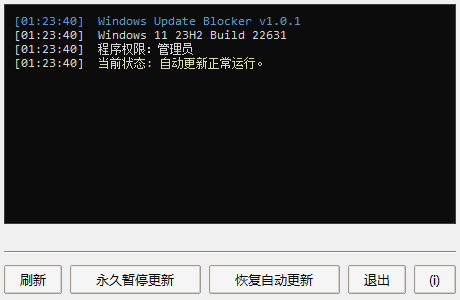
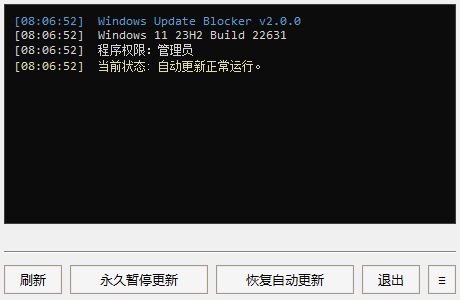
update

diff --git a/README.md b/README.md
@@ -1,25 +1,28 @@
 <div align="center">
+<img src="assets\icon.ico" width="128" alt="logo" />
+<h1>Windows Update Blocker</h1>
 
-# Windows Update Blocker
-
-[![Version](https://img.shields.io/badge/version-1.0.1-blue.svg)](#)
-[![Python](https://img.shields.io/badge/Python-3.8%2B-blue.svg)](#)
+[![Version](https://img.shields.io/badge/version-2.0.0-blue.svg)](#)
+[![Rust](https://img.shields.io/badge/Rust-1.71%2B-orange.svg?logo=rust&logoColor=white)](#)
 [![Platform](https://img.shields.io/badge/Platform-Windows-0078D6.svg?logo=windows&logoColor=white)](#)
-[![GUI](https://img.shields.io/badge/GUI-Tkinter-orange.svg)](#)
+[![GUI](https://img.shields.io/badge/GUI-Win32%20API-lightgrey.svg)](#)
 [![License](https://img.shields.io/badge/License-MIT-green.svg)](LICENSE)
 
-这是一个轻量级的 Windows 系统工具，旨在帮助用户一键**暂停**或**恢复** Windows 自动更新。
+一键 **暂停** 或 **恢复** Windows 自动更新。
 
 将暂停更新的时间延长至 **9999年12月31日**（意义上的永久暂停）
 
 </div>
 
 ## 📸 截图展示
-![IMG](/screenshot/demo1.png)
-![IMG](/screenshot/demo2.png)
+
+|正常状态|暂停更新状态|
+| --- | --- |
+| ![IMG](/screenshot/demo1.png) | ![IMG](/screenshot/demo2.png) |
 
 ## ✅ 优势
-对于传统的工具来说，我们只针对**Windows自动更新**，不影响`Windows Update`服务，对于需要使用微软产品的用户十分友好。
+
+对于传统的工具来说，我们只针对**Windows自动更新**，不影响`Windows Update`服务，对于需要使用微软产品的用户十分友好
 
 ## 🛠 原理
 
@@ -27,29 +30,82 @@
 `HKEY_LOCAL_MACHINE\SOFTWARE\Microsoft\WindowsUpdate\UX\Settings`
 
 **暂停更新时写入的键值：**
-* `FlightSettingsMaxPauseDays` 允许暂停更新的最大天数
-* `PauseFeatureUpdatesEndTime` 功能更新暂停开始时间
-* `PauseFeatureUpdatesStartTime` 功能更新暂停结束时间
-* `PauseQualityUpdatesEndTime` 质量更新暂停开始时间（日常补丁、安全更新）
-* `PauseQualityUpdatesStartTime` 质量更新暂停结束时间
-* `PauseUpdatesExpiryTime` 所有更新暂停开始时间
-* `PauseUpdatesStartTime` 暂停更新到期时间
+* `FlightSettingsMaxPauseDays` 允许暂停更新的最大天数（DWORD `0xFFFFFFFF`）
+* `PauseFeatureUpdatesStartTime` 功能更新暂停开始时间
+* `PauseFeatureUpdatesEndTime` 功能更新暂停结束时间
+* `PauseQualityUpdatesStartTime` 质量更新暂停开始时间（日常补丁、安全更新）
+* `PauseQualityUpdatesEndTime` 质量更新暂停结束时间
+* `PauseUpdatesStartTime` 所有更新暂停开始时间
+* `PauseUpdatesExpiryTime` 暂停更新到期时间
 
 **恢复更新：**
 删除上述键值，即可让 Windows 恢复默认策略。
 
+## ⬇ 下载使用
+
+[![Releases](https://img.shields.io/badge/Download-Releases-7C25FF?style=for-the-badge&logo=github&logoColor=white)](https://github.com/NeetheCheeBao/WU-Blocker/releases)
+
 ## 🛠 本地编译
 
+1. 克隆仓库到本地
+
 ```bash
+git clone https://github.com/NeetheCheeBao/WU-Blocker.git
+```
+
+或者
+
+```bash
+gh repo clone NeetheCheeBao/WU-Blocker
+```
+
+2. 一键编译
+
+```bat
 .\build.bat
 ```
 
-## ⬇ 下载使用
+- 产物位置：`dist\WU-Blocker.exe`
 
-前往 [Releases](https://github.com/NeetheCheeBao/WU-Blocker/releases) 页面下载。
+## 📁 项目结构
 
-1. 右键以**管理员身份运行**（程序会自动请求提权）。
-2. 点击“永久暂停更新”即可。
+```text
+WU-Blocker
+|   .gitignore
+|   build.bat           #一键编译脚本
+|   build.rs            #构建期生成图标资源、清理 Cargo.lock
+|   Cargo.lock          #依赖锁定
+|   Cargo.toml
+|   LICENSE
+|   README.md
+|   version.ini         #版本号文件
+|
++---assets
+|       icon.ico        #图标
+|
++---screenshot          #截图
+|       demo1.png
+|       demo2.png
+|
+\---src
+        main.rs         #入口：DPI 感知、管理员提权、启动 GUI
+        win.rs          #UTF-16 / COLORREF 转换与 Win32 常量
+        config.rs       #应用名称常量 + 解析 version.ini
+        core.rs         #平台层入口，挂载 core_* 子模块
+        core_reg.rs     #注册表键句柄 RAII 与读写封装
+        core_time.rs    #UTC 换算、ISO 解析（含 3 个测试）
+        core_sys.rs     #管理员判断、系统版本描述
+        core_status.rs  #Kind / LogLine 类型、更新状态查询
+        core_action.rs  #暂停 / 恢复更新、打开注册表与主页
+        ui.rs           #界面层入口，挂载 ui_* 子模块
+        ui_theme.rs     #配色画刷、字体、DPI 缩放、内嵌图标
+        ui_state.rs     #控件 ID、定时器、按钮表、AppState
+        ui_layout.rs    #按 DPI 计算终端、分隔线与按钮矩形
+        ui_term.rs      #RichEdit 写入、中英文分段字体
+        ui_paint.rs     #底衬、边框、分隔线、自绘按钮
+        ui_menu.rs      #鼠标悬停跟踪、右上角弹出菜单
+        ui_window.rs    #窗口创建、消息分发、命令处理、主循环
+```
 
 ## ⚖ 许可证
 
